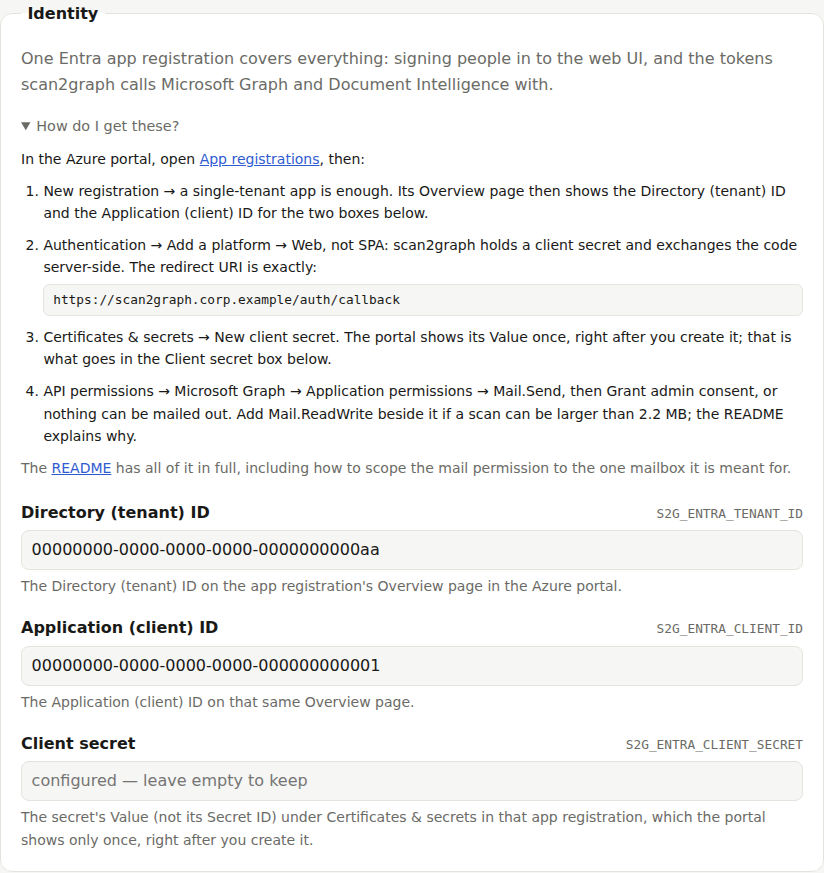
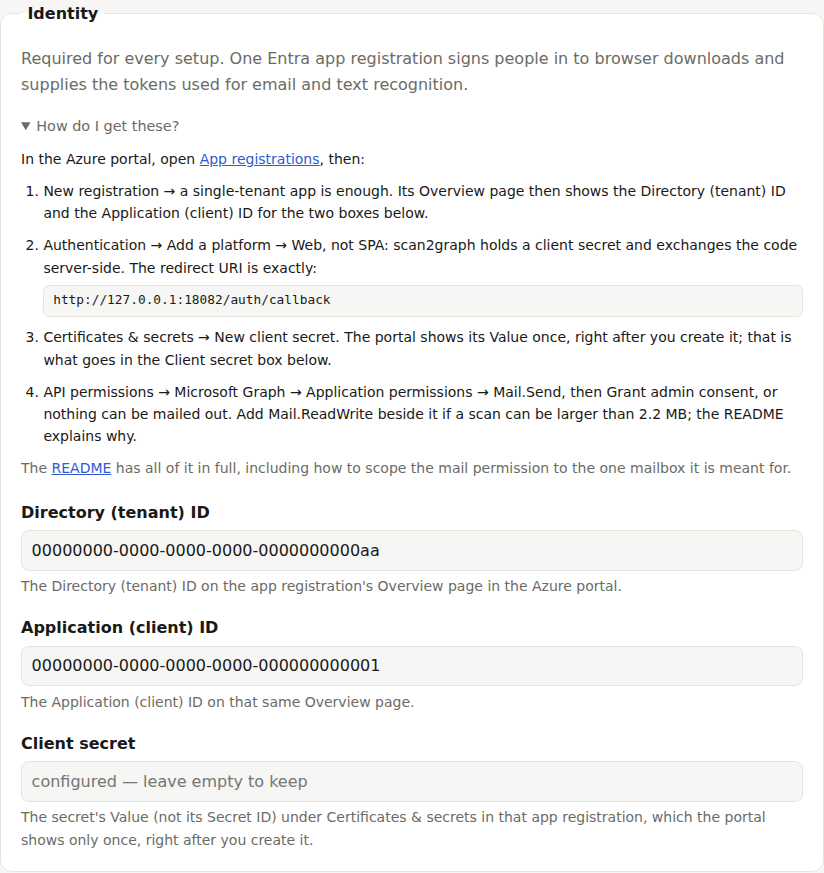
Lead setup with delivery choices and hide advanced tuning
Make first-time setup focus on what scans should do before asking for
identity details. Fold profiles and listener settings away while keeping
the existing configuration and validation behavior unchanged.

Keep delivery guidance accurate for explicit profiles and refresh the
setup screenshots so documentation follows the same flow.

diff --git a/internal/web/templates/setup.html b/internal/web/templates/setup.html
@@ -19,9 +19,11 @@ fail at the first thing it tries:</p>
 <div class="guide">{{template "steps" .Steps}}</div>{{end}}
 {{else}}
 <h1>Set up scan2graph</h1>
-<p class="empty">Everything here ends up in one KEY=value file. Leave a box
-empty to keep the built-in default, and open a folded-away section only when
-something asks you to.</p>
+<p class="empty">Choose email delivery, browser downloads, or both. At least
+one is required unless you configure printer profiles in Advanced options.
+Text recognition is optional. With no profiles, every printer sender gets all
+the capabilities you configure. Leave other boxes empty to use their built-in
+defaults.</p>
 {{if .Errors}}
 <div class="problems">
 <p>Not usable yet:</p>
@@ -62,14 +64,14 @@ mailbox it is meant for.</p>
 {{range .Fields}}{{template "field" .}}{{end}}
 {{if .Rare}}
 <details{{if .OpenRare}} open{{end}}>
-<summary>Rarely needed</summary>
+<summary>Advanced options</summary>
 {{range .Rare}}{{template "field" .}}{{end}}
 </details>
 {{end}}
 </fieldset>
 {{else}}
 {{/* A group that is entirely Rare has nothing ordinary to put in a
-     fieldset, so a fieldset built only to hold its "Rarely needed"
+     fieldset, so a fieldset built only to hold its "Advanced options"
      disclosure would be a box around a box: collapse straight to the
      disclosure instead, named for the group it replaces. */}}
 <details class="group"{{if .OpenRare}} open{{end}}>
@@ -93,12 +95,10 @@ mailbox it is meant for.</p>
 {{if eq .Kind "bool"}}
 <span class="field-head">
 <label class="check"><input type="checkbox" id="{{.Name}}" name="{{.Name}}" value="true"{{if .Checked}} checked{{end}}> {{.Label}}</label>
-<code>{{.Name}}</code>
 </span>
 {{else}}
 <span class="field-head">
 <label for="{{.Name}}">{{.Label}}</label>
-<code>{{.Name}}</code>
 </span>
 {{if eq .Kind "choice"}}
 <select id="{{.Name}}" name="{{.Name}}">

diff --git a/internal/web/setupfields.go b/internal/web/setupfields.go
@@ -47,6 +47,34 @@ const groupIdentity = "Identity"
 // the wizard.
 var setupFields = []setupField{
 	{
+		Name: "S2G_GRAPH_SENDER", Label: "Sending mailbox", Group: "Email delivery",
+		Help:        "The mailbox scans are mailed from; setting it together with the allowlist below is what turns email delivery on.",
+		Placeholder: "scanner@example.com",
+	}, {
+		Name: "S2G_ALLOWED_RECIPIENT_DOMAINS", Label: "Allowed recipient domains", Group: "Email delivery",
+		Help:        "Comma-separated domains a scan may be mailed to, without a leading @ and matched exactly; email delivery requires it, or the appliance would be an open relay.",
+		Placeholder: "example.com, example.org",
+	}, {
+		Name: "S2G_PUBLIC_BASE_URL", Label: "Public URL", Group: "Browser downloads",
+		Help:        "Where this appliance is reached through the reverse proxy that terminates TLS; setting it is what turns the web UI on. A host of its own, or a subpath under a shared one (https://nas.acme.office/scanner/) that the proxy forwards unchanged.",
+		Placeholder: "https://scan2graph.example.com",
+	}, {
+		Name: "S2G_UI_TITLE", Label: "Name shown in the UI", Group: "Browser downloads", Rare: true,
+		Help:        "What the web UI calls itself in its title and header, so it can say the household's or the office's name.",
+		Placeholder: "scan2graph",
+	}, {
+		Name: "S2G_JOB_TTL", Label: "How long a scan stays available", Group: "Browser downloads", Rare: true,
+		Help:        "How long a scan can be downloaded before it and its files are deleted; must be at least 1m.",
+		Placeholder: "8h",
+	}, {
+		Name: "S2G_HTTP_ADDR", Label: "HTTP listen address", Group: "Browser downloads", Rare: true,
+		Help:        "Address this process listens on for HTTP. In a container, this is internal; publish it through the host or reverse proxy rather than using it as the public URL.",
+		Placeholder: ":8080",
+	}, {
+		Name: "S2G_DI_ENDPOINT", Label: "Document Intelligence endpoint", Group: "Text recognition",
+		Help:        "The https URL of the Azure Document Intelligence resource that makes scans searchable; setting it is what turns text recognition on.",
+		Placeholder: "https://example.cognitiveservices.azure.com",
+	}, {
 		Name: "S2G_ENTRA_TENANT_ID", Label: "Directory (tenant) ID", Group: groupIdentity,
 		Help:        "The Directory (tenant) ID on the app registration's Overview page in the Azure portal.",
 		Placeholder: "00000000-0000-0000-0000-000000000000",
@@ -58,34 +86,6 @@ var setupFields = []setupField{
 		Name: "S2G_ENTRA_CLIENT_SECRET", Label: "Client secret", Kind: fieldSecret, Group: groupIdentity,
 		Help: "The secret's Value (not its Secret ID) under Certificates & secrets in that app registration, which the portal shows only once, right after you create it.",
 	}, {
-		Name: "S2G_GRAPH_SENDER", Label: "Sending mailbox", Group: "Delivery",
-		Help:        "The mailbox scans are mailed from; setting it together with the allowlist below is what turns email delivery on.",
-		Placeholder: "scanner@example.com",
-	}, {
-		Name: "S2G_ALLOWED_RECIPIENT_DOMAINS", Label: "Allowed recipient domains", Group: "Delivery",
-		Help:        "Comma-separated domains a scan may be mailed to, without a leading @ and matched exactly; email delivery requires it, or the appliance would be an open relay.",
-		Placeholder: "example.com, example.org",
-	}, {
-		Name: "S2G_PUBLIC_BASE_URL", Label: "Public URL", Group: "Web UI",
-		Help:        "Where this appliance is reached through the reverse proxy that terminates TLS; setting it is what turns the web UI on. A host of its own, or a subpath under a shared one (https://nas.acme.office/scanner/) that the proxy forwards unchanged.",
-		Placeholder: "https://scan2graph.example.com",
-	}, {
-		Name: "S2G_UI_TITLE", Label: "Name shown in the UI", Group: "Web UI",
-		Help:        "What the web UI calls itself in its title and header, so it can say the household's or the office's name.",
-		Placeholder: "scan2graph",
-	}, {
-		Name: "S2G_JOB_TTL", Label: "How long a scan stays available", Group: "Web UI", Rare: true,
-		Help:        "How long a scan can be downloaded before it and its files are deleted; must be at least 1m.",
-		Placeholder: "8h",
-	}, {
-		Name: "S2G_HTTP_ADDR", Label: "HTTP listen address", Group: "Web UI", Rare: true,
-		Help:        "Address the web UI listens on inside the container.",
-		Placeholder: ":8080",
-	}, {
-		Name: "S2G_SMTP_ADDR", Label: "SMTP listen address", Group: "Scanner",
-		Help:        "Address the printer sends its scans to.",
-		Placeholder: ":2525",
-	}, {
 		Name: "S2G_SMTP_USERNAME", Label: "SMTP username", Group: "Scanner",
 		Help:        "Username the printer signs in with; only means anything once a password is set.",
 		Placeholder: "scanner",
@@ -96,16 +96,16 @@ var setupFields = []setupField{
 		Name: "S2G_SMTP_ALLOW_ANONYMOUS", Label: "Accept scans without SMTP AUTH", Kind: fieldBool, Group: "Scanner",
 		Help: "For a printer that cannot authenticate at all: only on a trusted, isolated network segment, and not together with a username or password.",
 	}, {
-		Name: "S2G_PROFILES", Label: "Printer profiles", Kind: fieldProfiles, Group: "Scanner",
+		Name: "S2G_SMTP_ADDR", Label: "SMTP listen address", Group: "Scanner", Rare: true,
+		Help:        "Address this process listens on for SMTP. In a container, the printer connects to the appliance host on the LAN and the port published to this address.",
+		Placeholder: ":2525",
+	}, {
+		Name: "S2G_PROFILES", Label: "Printer profiles", Kind: fieldProfiles, Group: "Scanner", Rare: true,
 		Help: "One row per address the printer sends from, ticking what a scan from that address may do; with no rows filled in there are no profiles at all, and then every sender is accepted and gets whatever the rest of this configuration enables. Type into the blank rows to add profiles; two fresh ones come back with every submission the appliance accepts.",
 	}, {
 		Name: "S2G_MAX_MESSAGE_BYTES", Label: "Largest accepted message", Group: "Scanner", Rare: true,
 		Help:        "Biggest message the SMTP listener accepts, in bytes; the default is 32 MiB.",
 		Placeholder: "33554432",
-	}, {
-		Name: "S2G_DI_ENDPOINT", Label: "Document Intelligence endpoint", Group: "Text recognition",
-		Help:        "The https URL of the Azure Document Intelligence resource that makes scans searchable; setting it is what turns text recognition on.",
-		Placeholder: "https://example.cognitiveservices.azure.com",
 	}, {
 		Name: "S2G_LOG_LEVEL", Label: "Log level", Kind: fieldChoice,
 		Choice: []string{"debug", "info", "warn", "error"}, Group: "Advanced", Rare: true,
@@ -138,10 +138,11 @@ var setupFields = []setupField{
 // does Advanced: it stays folded away, and whoever opens it knows what
 // they came for.
 var groupIntro = map[string]string{
-	groupIdentity:      "One Entra app registration covers everything: signing people in to the web UI, and the tokens scan2graph calls Microsoft Graph and Document Intelligence with.",
-	"Web UI":           "Set the public URL and a scan can be picked up in a browser instead of being mailed; leave it empty and this stays an email-only appliance.",
-	"Scanner":          "How the printer talks to scan2graph: where it sends, how it signs in, and what a scan from each of its buttons may do.",
-	"Text recognition": "Optional: with a Document Intelligence resource, scans come out as PDFs you can search rather than pictures of paper.",
+	"Email delivery":    "Set both fields to mail scans.",
+	"Browser downloads": "Set the public URL to let people pick scans up in a browser.",
+	"Text recognition":  "Optional: with a Document Intelligence resource, scans come out as PDFs you can search rather than pictures of paper.",
+	groupIdentity:       "Required for every setup. One Entra app registration signs people in to browser downloads and supplies the tokens used for email and text recognition.",
+	"Scanner":           "Set how the printer authenticates. In a container, it connects to the appliance's published host and port on the LAN.",
 }
 
 // handEdited are S2G_* settings that exist only for the end-to-end test

diff --git a/internal/web/setup_test.go b/internal/web/setup_test.go
@@ -343,6 +343,26 @@ func TestSetupToken(t *testing.T) {
 	})
 }
 
+func TestSetupFormPresentsTheWorkflowBeforeAdvancedSettings(t *testing.T) {
+	h := newSetupHarness(t, SetupOptions{})
+	_, body := h.get(h.claimed(), "/setup")
+
+	from := 0
+	for _, heading := range []string{
+		"Email delivery", "Browser downloads", "Text recognition",
+		"Identity", "Scanner", "Advanced",
+	} {
+		i := strings.Index(body[from:], ">"+heading+"</")
+		if i < 0 {
+			t.Fatalf("group %q is missing or out of order", heading)
+		}
+		from += i + len(heading) + 3
+	}
+	if strings.Contains(body, "<code>S2G_") {
+		t.Error("a normal field label still exposes a raw setting name")
+	}
+}
+
 func TestSetupRejectsAndAttributes(t *testing.T) {
 	h := newSetupHarness(t, SetupOptions{Path: filepath.Join(t.TempDir(), "scan2graph.env")})
 	form := validForm()
@@ -1444,6 +1464,9 @@ func TestSetupGuideDerivesTheRedirectURI(t *testing.T) {
 			h := newSetupHarness(t, SetupOptions{FileValues: values, Getenv: getenv})
 			_, body := h.get(h.claimed(), h.prefix+"/setup")
 			if want == "" {
+				if !strings.Contains(body, "Public URL field on this page") {
+					t.Errorf("the guide does not point to the Public URL field without relying on its position:\n%s", body)
+				}
 				if strings.Contains(body, "/auth/callback") {
 					t.Errorf("the page offers a redirect URI with no public URL set:\n%s", body)
 				}

diff --git a/internal/web/setup.go b/internal/web/setup.go
@@ -749,7 +749,7 @@ func (s *setupServer) entraSteps(values map[string]string) []setupStep {
 			Code: uri,
 		})
 	} else {
-		steps = append(steps, setupStep{Text: "Nothing to add under Authentication yet: the redirect URI is worked out from the Public URL further down this page, so fill that in and come back here for it. An appliance that only mails scans out signs nobody in and needs none at all."})
+		steps = append(steps, setupStep{Text: "Nothing to add under Authentication yet: the redirect URI is worked out from the Public URL field on this page, so fill that in and come back here for it. An appliance that only mails scans out signs nobody in and needs none at all."})
 	}
 	steps = append(steps, setupStep{Text: "Certificates & secrets → New client secret. The portal shows its Value once, right after you create it; that is what goes in the Client secret box below."})
 	if config.Resolve(getenv, "S2G_GRAPH_SENDER") != "" {

diff --git a/README.md b/README.md
@@ -114,9 +114,10 @@ not a filter you have configured.
 Point the printer's "scan to email" feature at scan2graph:
 
 * **SMTP server**: scan2graph's host, on the LAN.
-* **Port**: whatever `S2G_SMTP_ADDR` listens on (`2525` by default — scan2graph
-  runs unprivileged and cannot bind port 25 itself; forward it at the network
-  layer if the printer insists on 25).
+* **Port**: the port from `S2G_SMTP_ADDR`, or the LAN host port mapped to it
+  when scan2graph runs in a container (`2525` by default — scan2graph runs
+  unprivileged and cannot bind port 25 itself; forward it at the network layer
+  if the printer insists on 25).
 * **Encryption**: none. The listener never advertises STARTTLS; see "Security
   assumptions" for why that is an accepted trade-off on a LAN segment.
 * **Authentication**: PLAIN or LOGIN, with `S2G_SMTP_USERNAME` /
